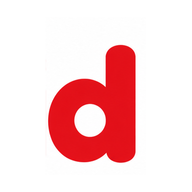
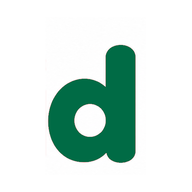
Update brand assets and implement splash screen component
Replit-Commit-Author: Agent

Changed region(s): [[0.25, 0.2188, 0.7188, 0.875]]

diff --git a/src/components/SplashScreen.tsx b/src/components/SplashScreen.tsx
@@ -1,0 +1,74 @@
+import { useEffect, useState, type ReactNode } from 'react';
+
+interface SplashScreenProps {
+  children: ReactNode;
+}
+
+const SPLASH_MINIMUM_TIME = 1100;
+const SPLASH_EXIT_TIME = 420;
+
+export function SplashScreen({ children }: SplashScreenProps) {
+  const [visible, setVisible] = useState(true);
+  const [exiting, setExiting] = useState(false);
+
+  useEffect(() => {
+    const exitTimer = window.setTimeout(() => setExiting(true), SPLASH_MINIMUM_TIME);
+    const hideTimer = window.setTimeout(() => setVisible(false), SPLASH_MINIMUM_TIME + SPLASH_EXIT_TIME);
+
+    return () => {
+      window.clearTimeout(exitTimer);
+      window.clearTimeout(hideTimer);
+    };
+  }, []);
+
+  return (
+    <>
+      <div
+        aria-hidden={!visible}
+        className={`fixed inset-0 z-[100] flex items-center justify-center overflow-hidden bg-[#fffaf4] transition-opacity duration-[420ms] ${
+          visible ? 'opacity-100' : 'pointer-events-none opacity-0'
+        }`}
+      >
+        <div className="absolute -left-20 -top-24 h-64 w-64 rounded-full bg-[#006b45]/10 blur-3xl" />
+        <div className="absolute -bottom-24 -right-16 h-72 w-72 rounded-full bg-[#e51c2a]/10 blur-3xl" />
+
+        <div
+          className={`relative flex w-[min(86vw,390px)] flex-col items-center text-center transition-all duration-700 ${
+            exiting ? 'translate-y-[-10px] scale-[1.03] opacity-0' : 'translate-y-0 scale-100 opacity-100'
+          }`}
+        >
+          <div className="relative mb-7 flex w-full items-center justify-center">
+            <div className="absolute h-40 w-40 rounded-full border border-[#006b45]/10" />
+            <div className="absolute h-32 w-32 rounded-full border border-[#e51c2a]/10 [animation:spin_10s_linear_infinite]" />
+            <div className="relative flex h-24 w-24 items-center justify-center rounded-[28px] bg-white p-2 shadow-[0_18px_45px_-18px_rgba(0,70,45,0.45)]">
+              <img
+                src="/branding/sadesa-icon-192.png"
+                alt=""
+                className="h-full w-full object-contain"
+              />
+            </div>
+          </div>
+
+          <img
+            src="/branding/sadesa-logo.png"
+            alt="SaDesa"
+            className="w-[min(80vw,340px)] object-contain"
+          />
+          <p className="mt-4 text-[11px] font-bold uppercase tracking-[0.24em] text-[#006b45]/70">
+            Dari desa untuk Indonesia
+          </p>
+
+          <div className="mt-8 flex items-center gap-1.5" aria-label="Memuat aplikasi" role="status">
+            <span className="h-1.5 w-1.5 rounded-full bg-[#006b45] [animation:splash-pulse_1.2s_ease-in-out_infinite]" />
+            <span className="h-1.5 w-1.5 rounded-full bg-[#e51c2a] [animation:splash-pulse_1.2s_0.2s_ease-in-out_infinite]" />
+            <span className="h-1.5 w-1.5 rounded-full bg-[#f0a51a] [animation:splash-pulse_1.2s_0.4s_ease-in-out_infinite]" />
+          </div>
+        </div>
+      </div>
+
+      <div className={`transition-opacity duration-500 ${visible ? 'opacity-0' : 'opacity-100'}`}>
+        {children}
+      </div>
+    </>
+  );
+}

diff --git a/src/App.tsx b/src/App.tsx
@@ -15,6 +15,7 @@ import { SEO } from "@/components/SEO";
 import { OfflineIndicator } from "@/components/pwa/OfflineIndicator";
 import { UpdatePrompt } from "@/components/pwa/UpdatePrompt";
 import { ErrorBoundary } from "@/components/ui/ErrorBoundary";
+import { SplashScreen } from "@/components/SplashScreen";
 import { POSProvider } from "./contexts/POSContext";
 import { POSAccessRoute } from "@/components/pos/posPermissions";
 import { logUnhandledErrors, reportObservability } from '@/lib/observability';
@@ -364,8 +365,9 @@ function HomeRoute() {
 }
 
 const App = () => (
-  <ErrorBoundary>
-    <QueryClientProvider client={queryClient}>
+  <SplashScreen>
+    <ErrorBoundary>
+      <QueryClientProvider client={queryClient}>
       <TooltipProvider>
         <AuthProvider>
           <WhitelabelProvider>
@@ -1182,8 +1184,9 @@ const App = () => (
       </WhitelabelProvider>
     </AuthProvider>
   </TooltipProvider>
-</QueryClientProvider>
-  </ErrorBoundary>
+      </QueryClientProvider>
+    </ErrorBoundary>
+  </SplashScreen>
 );
 
 export default App;

diff --git a/src/index.css b/src/index.css
@@ -4,6 +4,17 @@
 @tailwind components;
 @tailwind utilities;
 
+@keyframes splash-pulse {
+  0%, 100% {
+    transform: translateY(0);
+    opacity: 0.45;
+  }
+  50% {
+    transform: translateY(-4px);
+    opacity: 1;
+  }
+}
+
 /* Leaflet Map Fixes */
 .leaflet-container {
   font-family: inherit;
